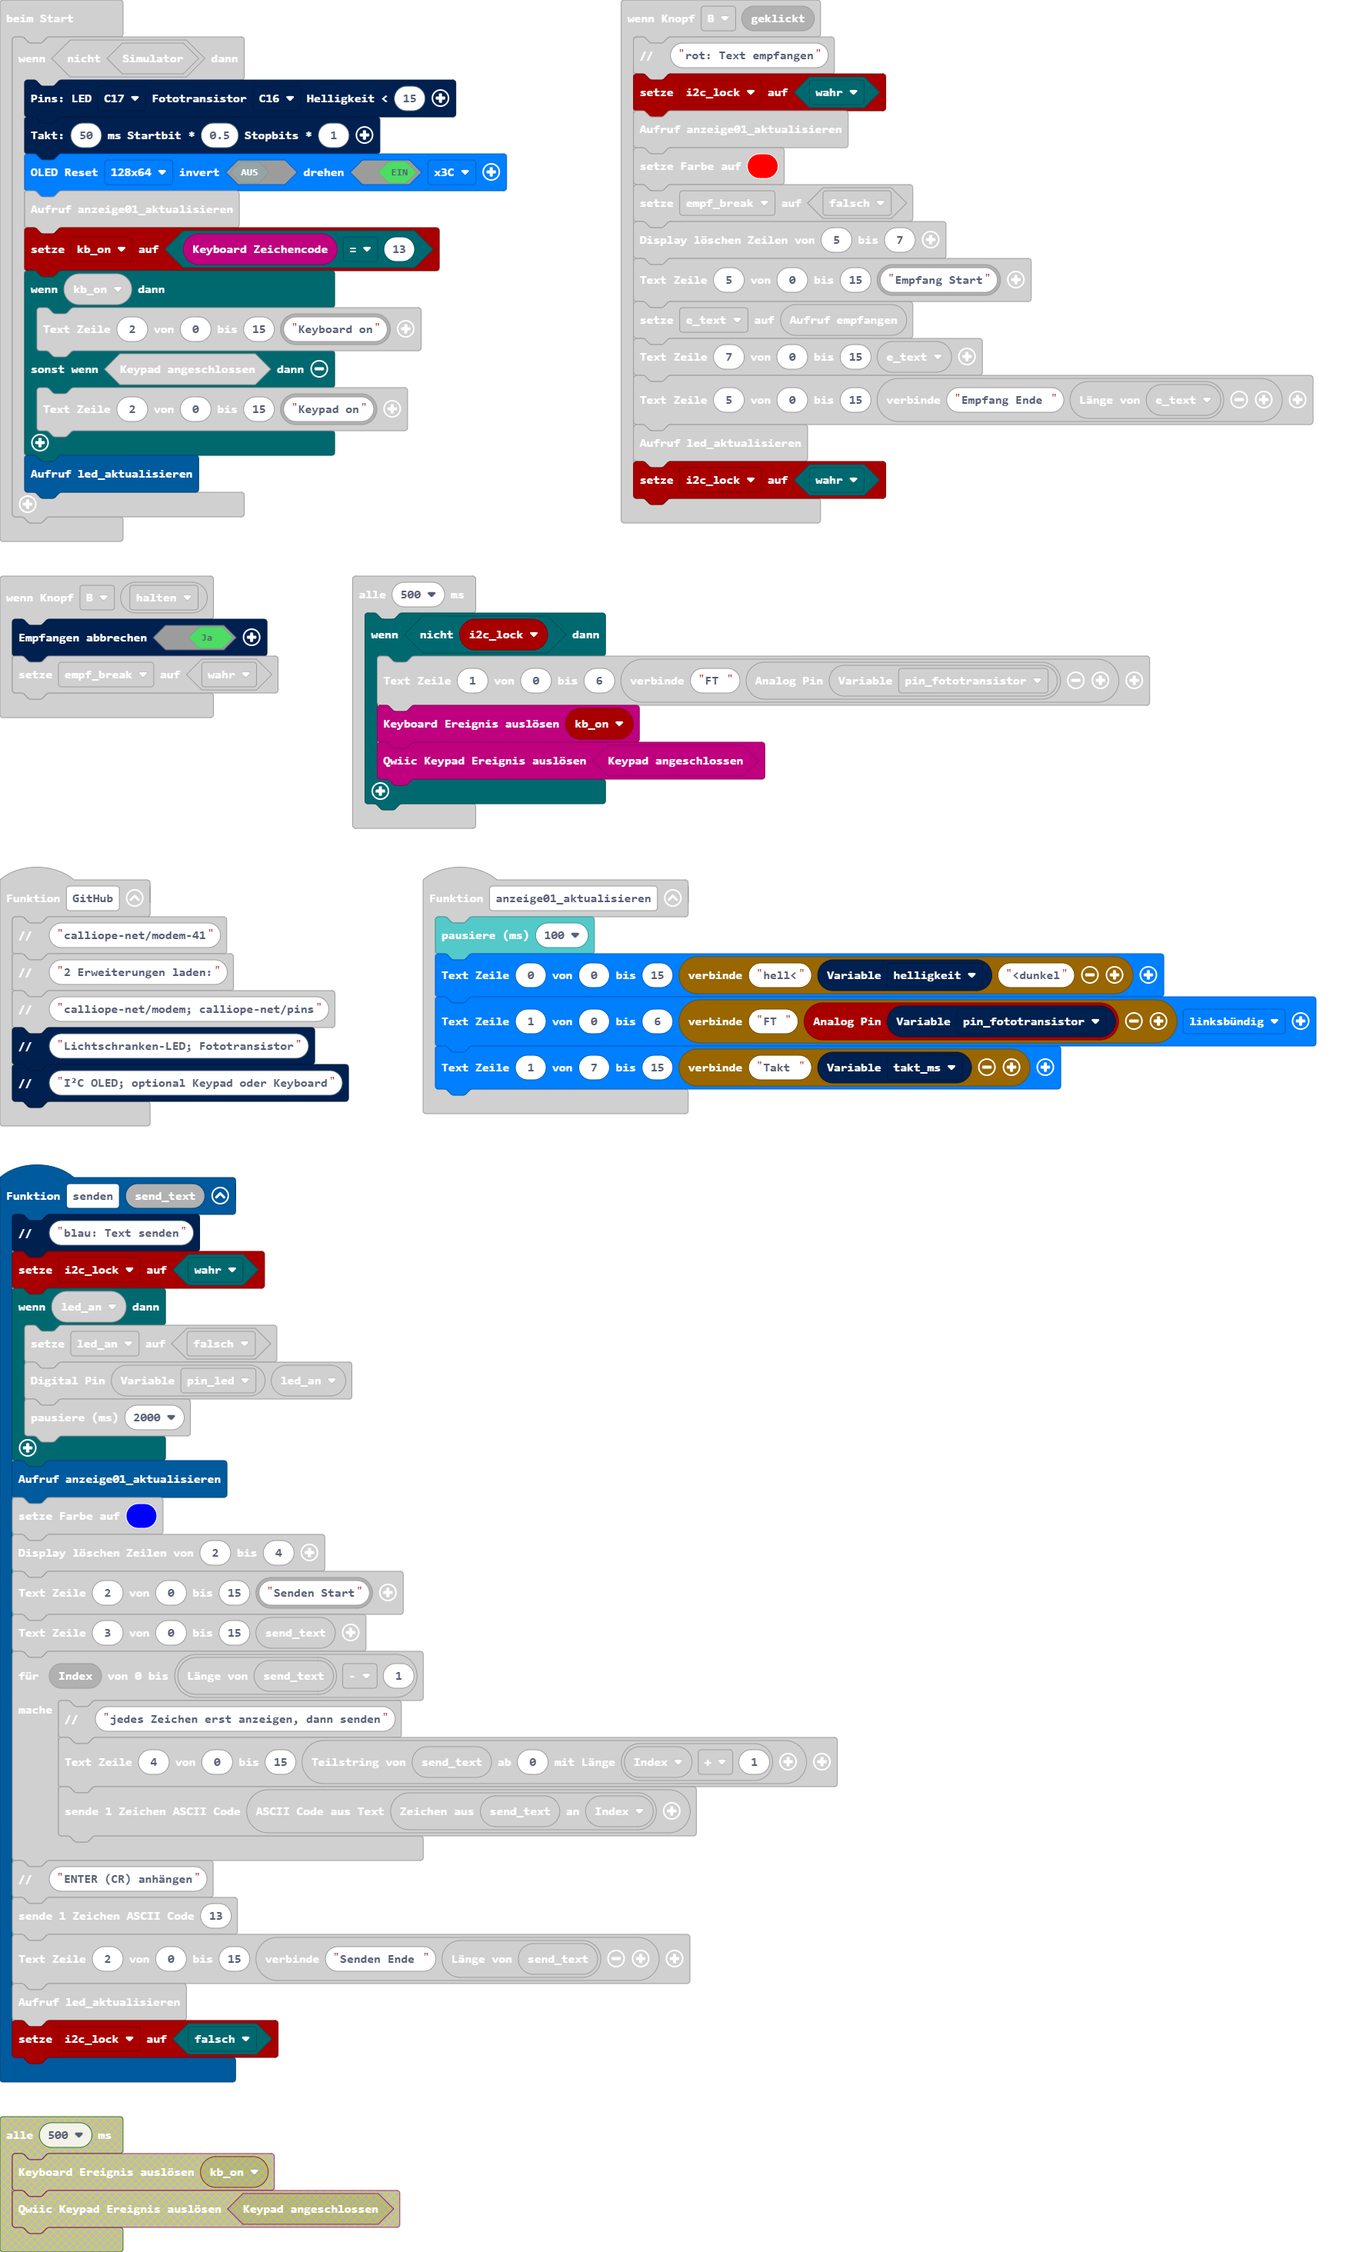
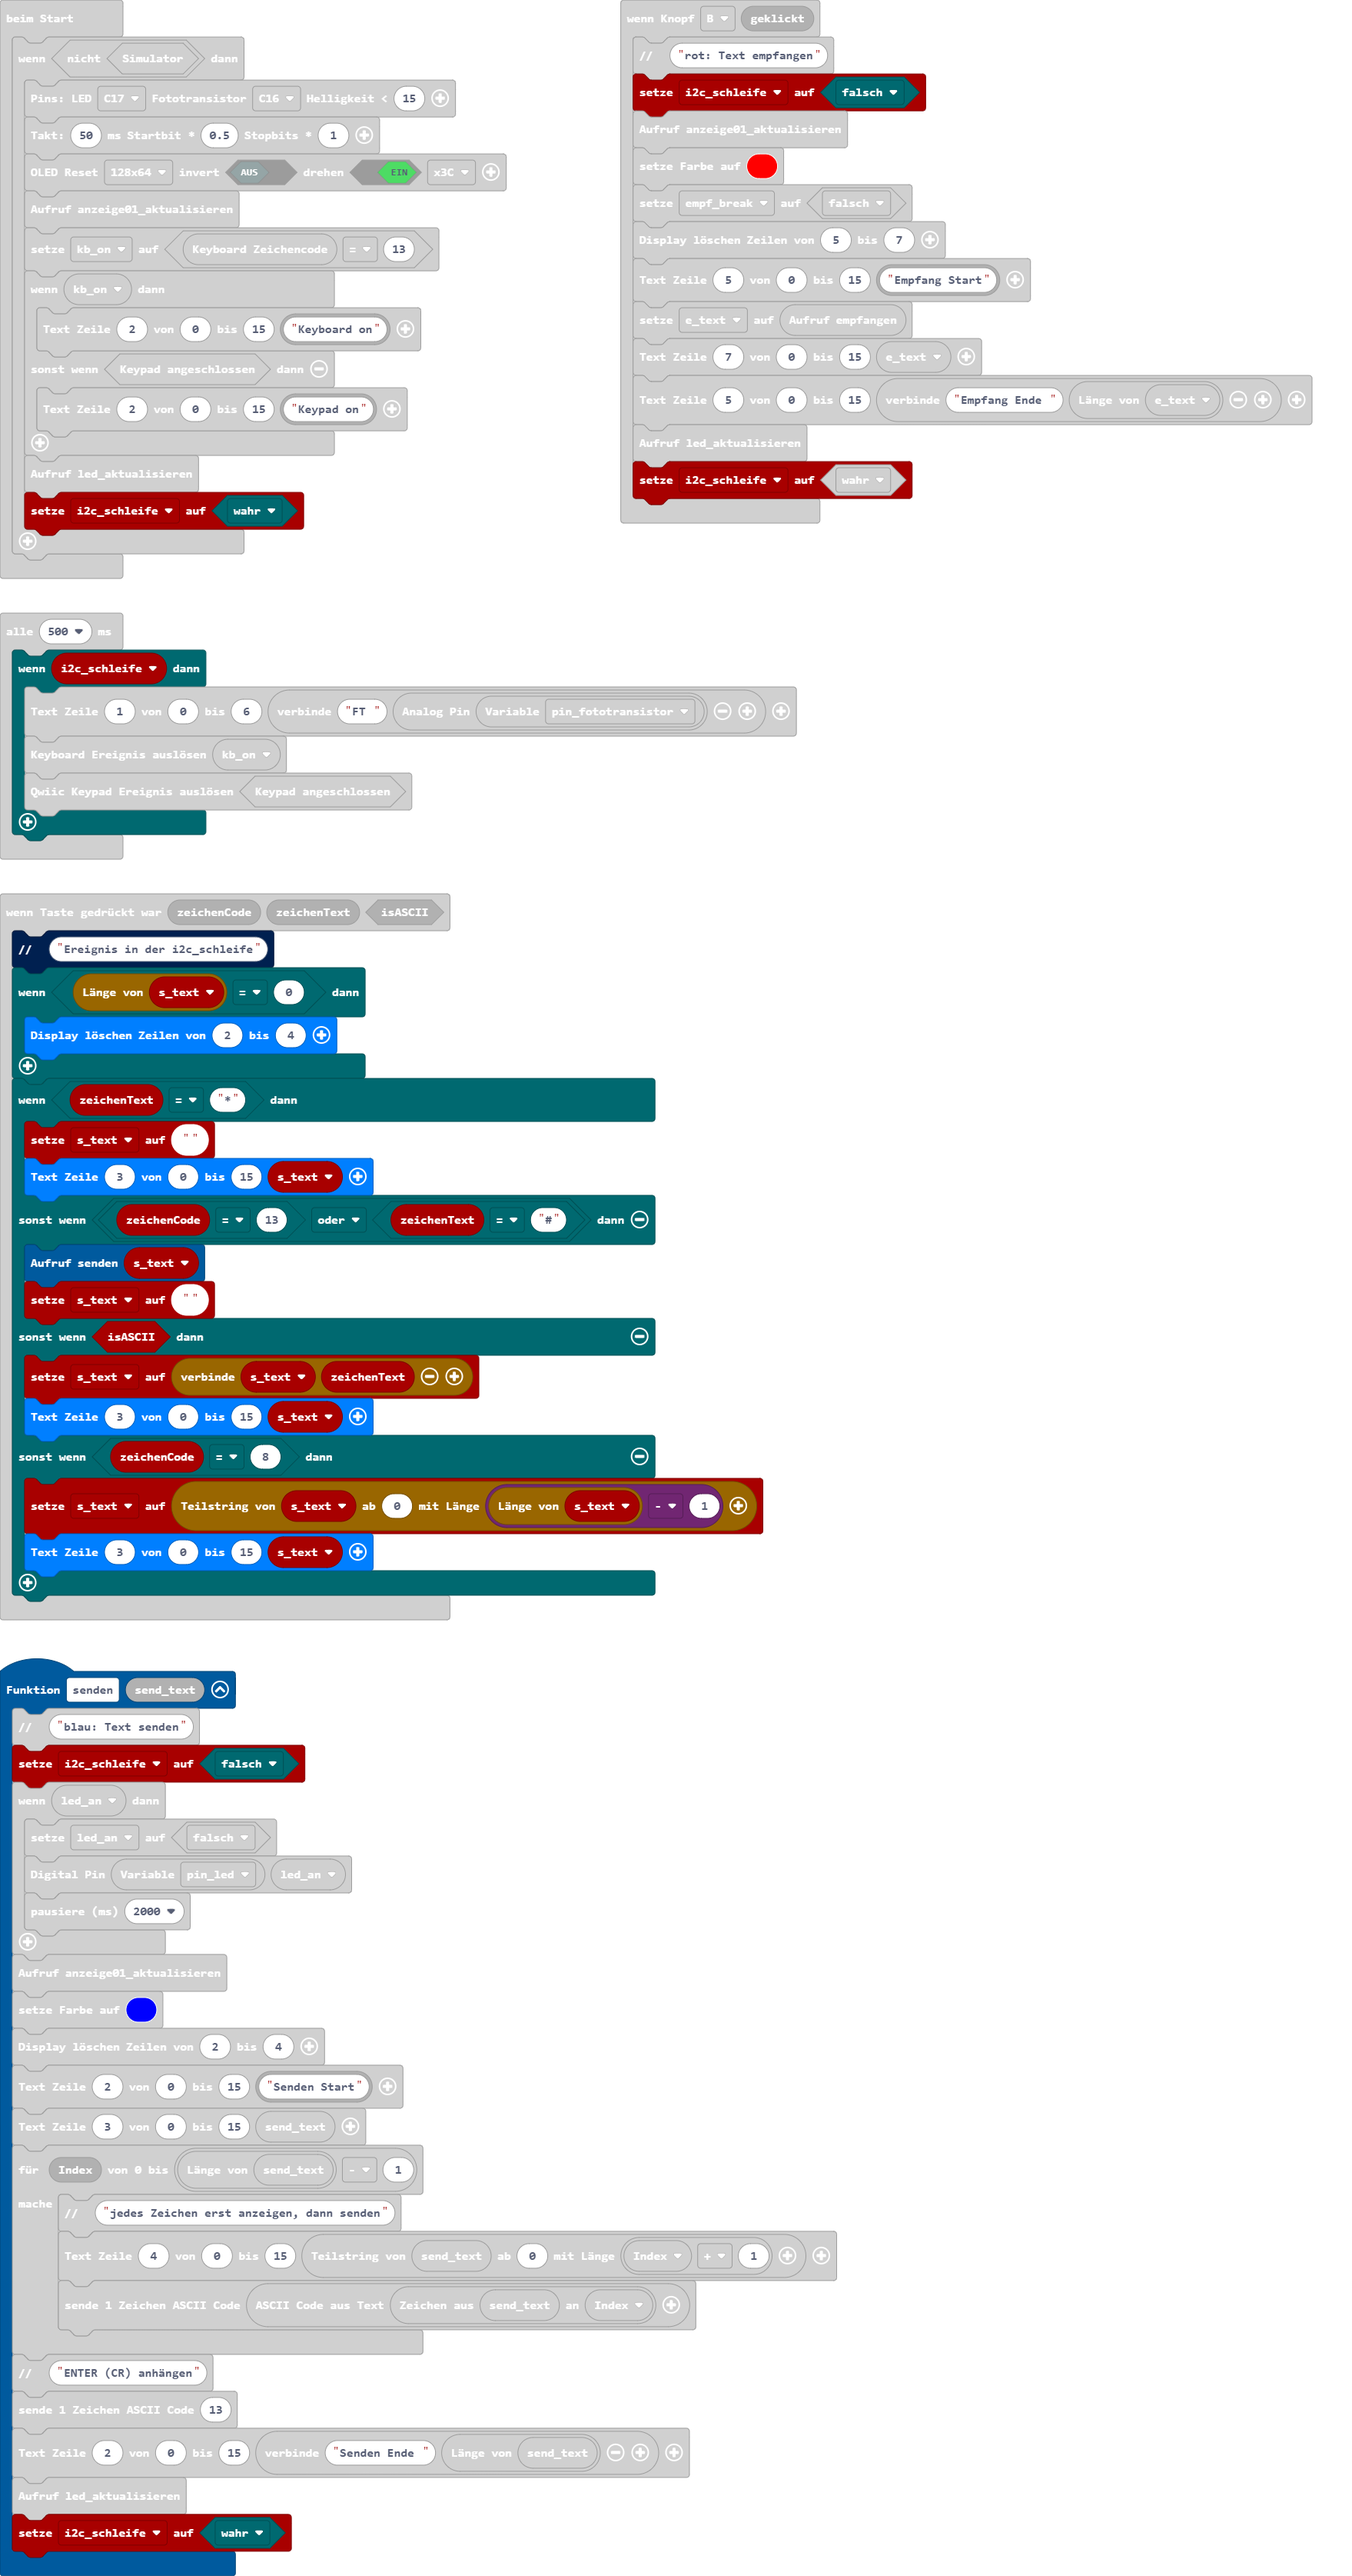
Aktualisiere main.blocks, main.ts

diff --git a/main.ts b/main.ts
@@ -1,6 +1,6 @@
 function senden (send_text: string) {
     modem.comment("blau: Text senden")
-    i2c_lock = true
+    i2c_schleife = false
     if (led_an) {
         led_an = false
         pins.pinDigitalWrite(modem.get_settings(modem.e_settings.pin_led), led_an)
@@ -20,7 +20,7 @@ function senden (send_text: string) {
     modem.sende_code(13)
     pins.oled_write_text(2, 0, 15, "Senden Ende " + send_text.length)
     led_aktualisieren()
-    i2c_lock = false
+    i2c_schleife = true
 }
 function GitHub () {
     modem.comment("calliope-net/modem-41")
@@ -30,6 +30,7 @@ function GitHub () {
     modem.comment("I²C OLED; optional Keypad oder Keyboard")
 }
 pins.onKeyboardEvent(function (zeichenCode, zeichenText, isASCII) {
+    modem.comment("Ereignis in der i2c_schleife")
     if (s_text.length == 0) {
         pins.oled_clear(2, 4)
     }
@@ -41,6 +42,9 @@ pins.onKeyboardEvent(function (zeichenCode, zeichenText, isASCII) {
         s_text = ""
     } else if (isASCII) {
         s_text = "" + s_text + zeichenText
+        pins.oled_write_text(3, 0, 15, s_text)
+    } else if (zeichenCode == 8) {
+        s_text = s_text.substr(0, s_text.length - 1)
         pins.oled_write_text(3, 0, 15, s_text)
     }
 })
@@ -75,7 +79,7 @@ input.onButtonEvent(Button.AB, input.buttonEventClick(), function () {
 })
 input.onButtonEvent(Button.B, input.buttonEventClick(), function () {
     modem.comment("rot: Text empfangen")
-    i2c_lock = true
+    i2c_schleife = false
     anzeige01_aktualisieren()
     basic.setLedColor(0xff0000)
     empf_break = false
@@ -85,7 +89,7 @@ input.onButtonEvent(Button.B, input.buttonEventClick(), function () {
     pins.oled_write_text(7, 0, 15, e_text)
     pins.oled_write_text(5, 0, 15, "Empfang Ende " + e_text.length)
     led_aktualisieren()
-    i2c_lock = true
+    i2c_schleife = true
 })
 function anzeige01_aktualisieren () {
     basic.pause(100)
@@ -110,7 +114,7 @@ let empf_break = false
 let empf_text = ""
 let s_text = ""
 let led_an = false
-let i2c_lock = false
+let i2c_schleife = false
 let kb_on = false
 if (!(pins.simulator())) {
     modem.set_pins(DigitalPin.C17, AnalogPin.C16)
@@ -124,9 +128,10 @@ if (!(pins.simulator())) {
         pins.oled_write_text(2, 0, 15, pins.pins_text("Keypad on"))
     }
     led_aktualisieren()
+    i2c_schleife = true
 }
 loops.everyInterval(500, function () {
-    if (!(i2c_lock)) {
+    if (i2c_schleife) {
         pins.oled_write_text(1, 0, 6, "FT " + pins.pinAnalogRead(modem.get_settings(modem.e_settings.pin_fototransistor)))
         pins.raiseKeyboardEvent(kb_on)
         pins.raiseKeypadEvent(pins.keypadConnected())
